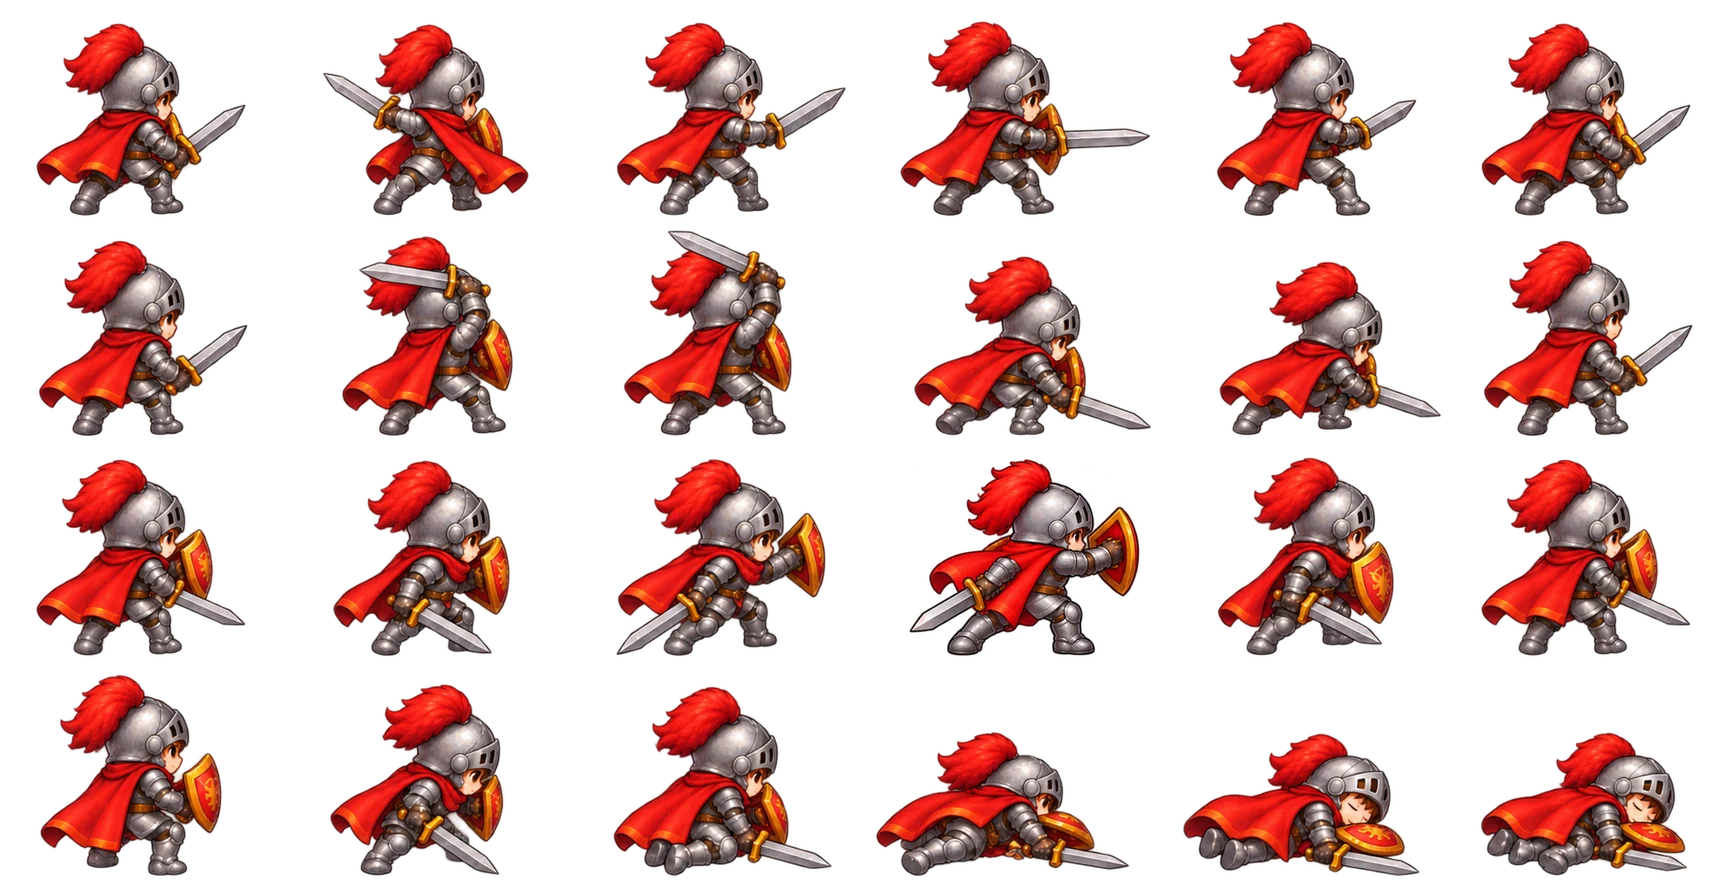
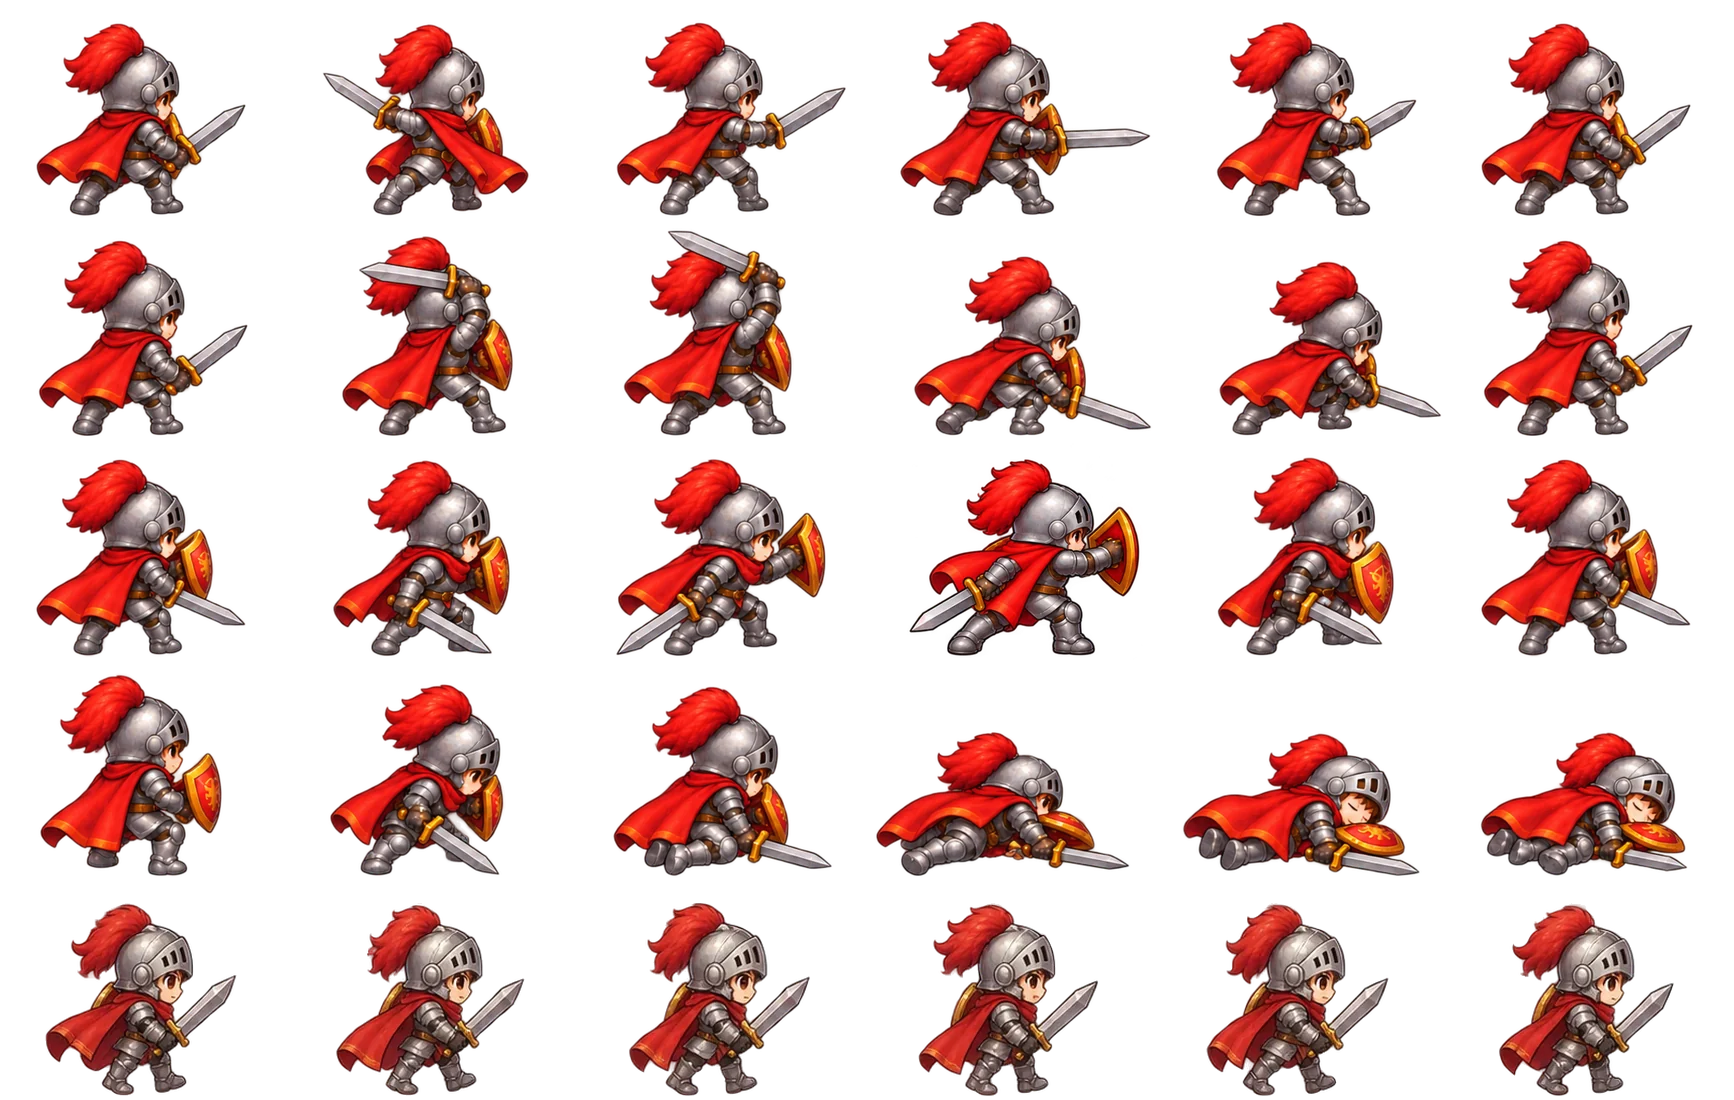
v335: 보스 앞까지 걸어가기 — 예전 8방향 걷기 그림의 오른쪽 줄을 시트 5번째 줄로(공격 그림과 키·발 맞춤) · 돌아올 때는 뒷걸음질
Claude-Session: https://claude.ai/code/session_01NYGzT74qeKHZCf17pUuGJ5

diff --git a/index.html b/index.html
@@ -2556,7 +2556,7 @@ body.tabL #scStudy.vPath .stMap.wm > .stRvRow{grid-column:1/-1}
 .rdHostOn #rdC{position:sticky;bottom:0;z-index:5;padding:8px 0 calc(env(safe-area-inset-bottom,0px) + 8px);background:linear-gradient(180deg,rgba(11,7,22,0),#0b0716 35%)}
 .rsSpr{display:block;width:100%;height:100%;background-size:600% 300%;background-repeat:no-repeat;background-position:0 50%;filter:drop-shadow(0 6px 5px rgba(0,0,0,.45))}
 .rsHero.bsH{aspect-ratio:289/220;height:22%} .rsHero.me.bsH{height:30%;left:12%;bottom:8%}   /* 보스보다 작게 (사용자) */   /* (v335) 새 공격 그림 칸 (289×220) — 그림 둘레 빈칸이 있어 조금 크게 */
-.rsSpr.bs{background-size:600% 400%;background-position:0 0}
+.rsSpr.bs{background-size:600% 500%;background-position:0 0}   /* 6칸 × 5줄: 공격1 · 공격2 · 큰 공격 · 쓰러짐 · 걷기 */
 .rsName{position:absolute;left:50%;bottom:-6px;transform:translateX(-50%);font:800 11px var(--font);background:rgba(0,0,0,.55);padding:1px 6px;border-radius:8px;white-space:nowrap;color:#fff}
 .rs.big .rsName{font-size:13px}
 .rsHero.oops .rsSpr{animation:rsWob .42s}
@@ -17142,15 +17142,15 @@ const RaidStage = {
       p.style.cssText="left:"+(70+Math.random()*6)+"%;top:"+(42+Math.random()*10)+"%;--dx:"+Math.round(Math.cos(a)*r)+"px;--dy:"+Math.round(Math.sin(a)*r-20)+"px;background:"+col; this.fx.appendChild(p); setTimeout(()=>p.remove(), 700); } },
   slash(mine){ if(!this.fx) return; const s=document.createElement("i"); s.className="rsSlash"+(mine?"":" sm"); s.style.left=(64+Math.random()*8)+"%"; s.style.top=(26+Math.random()*16)+"%"; s.style.setProperty("--r", (Math.random()*60-30)+"deg"); this.fx.appendChild(s); setTimeout(()=>s.remove(), 420); },
   /* (v335) 새 공격 그림 — 가만히: 공격 줄 첫 칸 + 숨쉬기 · 공격: 달려가며 준비(1) → 휘두르기(2~5) → 돌아오기 · 맞음: 쓰러짐 줄 앞 3칸 비틀 */
-  BSG:0.26, BSH:0.42, BSR:0.32,   // (v335) 다가가기(폴짝) · 때리기 · 돌아오기 (초)
+  BSG:0.34, BSH:0.42, BSR:0.36,   // (v335) 걸어가기 · 때리기 · 뒷걸음질 (초) — 걷기 = 시트 5번째 줄
   stepBs(o, now, W){ let x=0, row=o.atk|0, fr=0, hop=0; const go=this.BSG, hit=this.BSH, ret=this.BSR;
     if(o.dash){ const t=(now-o.dashT)/1000;
-      if(t<go){ const p=t/go; x=1-(1-p)*(1-p); hop=Math.sin(p*Math.PI)*16; fr=1; }                                   // 다가가며 폴짝 (공격 준비 자세)
-      else if(t<go+hit){ x=1; fr=2+Math.min(3, Math.floor((t-go)/hit*4)); }                                             // 때리기
-      else if(t<go+hit+ret){ const p=(t-go-hit)/ret; x=1-p*p; hop=Math.sin(p*Math.PI)*10; fr=5; }                    // 폴짝 돌아오기
+      if(t<go){ const p=t/go; x=p<0.85 ? p/0.85*0.92 : 0.92+(p-0.85)/0.15*0.08; row=4; fr=Math.floor(t*20)%6; hop=Math.abs(Math.sin(t*20*Math.PI/3))*3; }   // 보스 앞까지 뛰어감 (걷기 그림 빠르게)
+      else if(t<go+hit){ x=1; fr=1+Math.min(4, Math.floor((t-go)/hit*5)); }                                                  // 때리기 (준비 → 휘두름)
+      else if(t<go+hit+ret){ const p=(t-go-hit)/ret, q=t-go-hit; x=1-p; row=4; fr=(6-Math.floor(q*16)%6)%6; }              // 뒷걸음질로 돌아오기
       else o.dash=0; }
     if(o.hurt){ const t=(now-o.hurtT)/1000; if(t<0.9){ row=3; fr=[0,1,2,2,1,0][Math.min(5, Math.floor(t/0.15))]; x=-0.12*(t<0.45 ? Math.sin(t/0.45*Math.PI/2) : Math.max(0, 1-(t-0.45)/0.45)); } else o.hurt=0; }
-    if(o.f!==fr || o.row!==row){ o.f=fr; o.row=row; o.spr.style.backgroundPosition=(fr*20)+"% "+(row*100/3)+"%"; }
+    if(o.f!==fr || o.row!==row){ o.f=fr; o.row=row; o.spr.style.backgroundPosition=(fr*20)+"% "+(row*25)+"%"; }
     const reach=(o.mine ? 0.29 : 0.36)*W, bob = o.dash||o.hurt ? -hop : Math.abs(Math.sin(now/300+o.slot))*-2.5;
     o.el.style.transform="translate("+Math.round(x*reach)+"px, "+bob.toFixed(1)+"px)";
     if(!o.mine && o.bx!=null){ o.el.style.left=o.bx+"%"; o.el.style.bottom=o.by+"%"; } },
